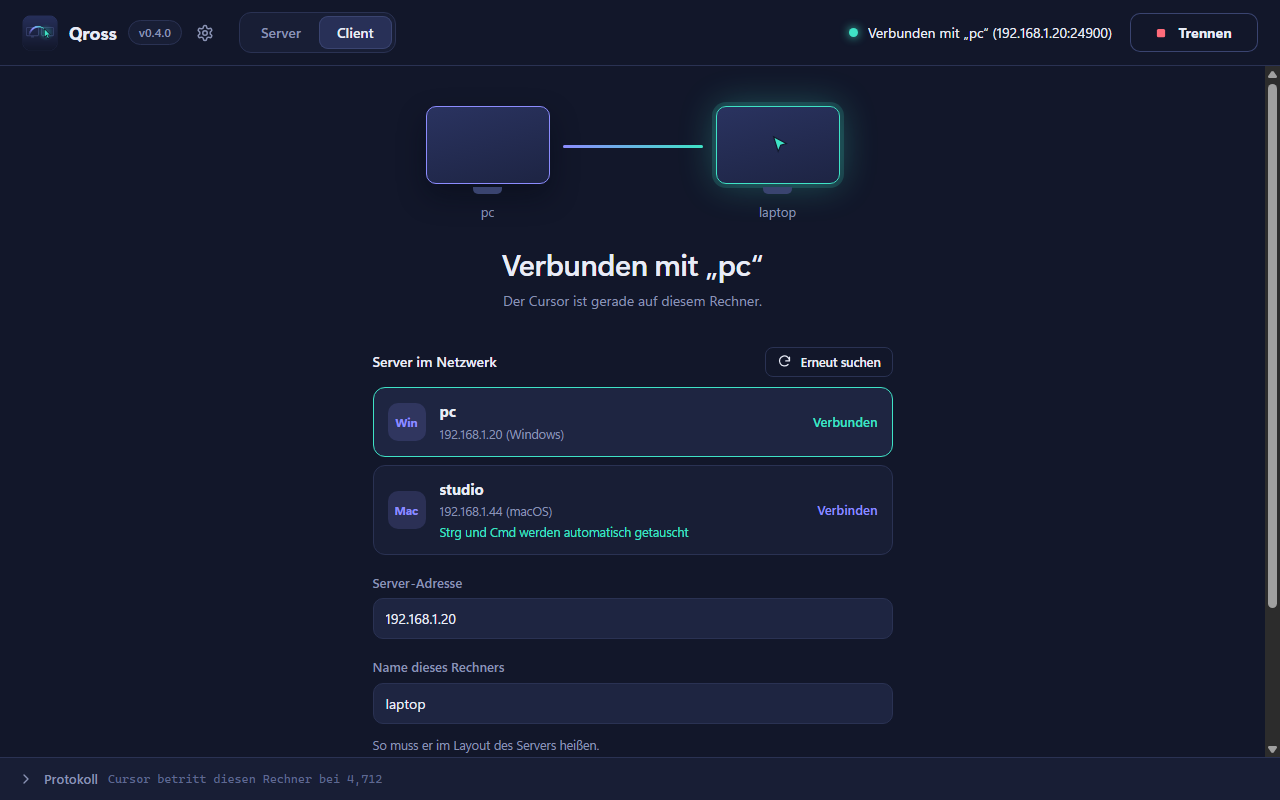
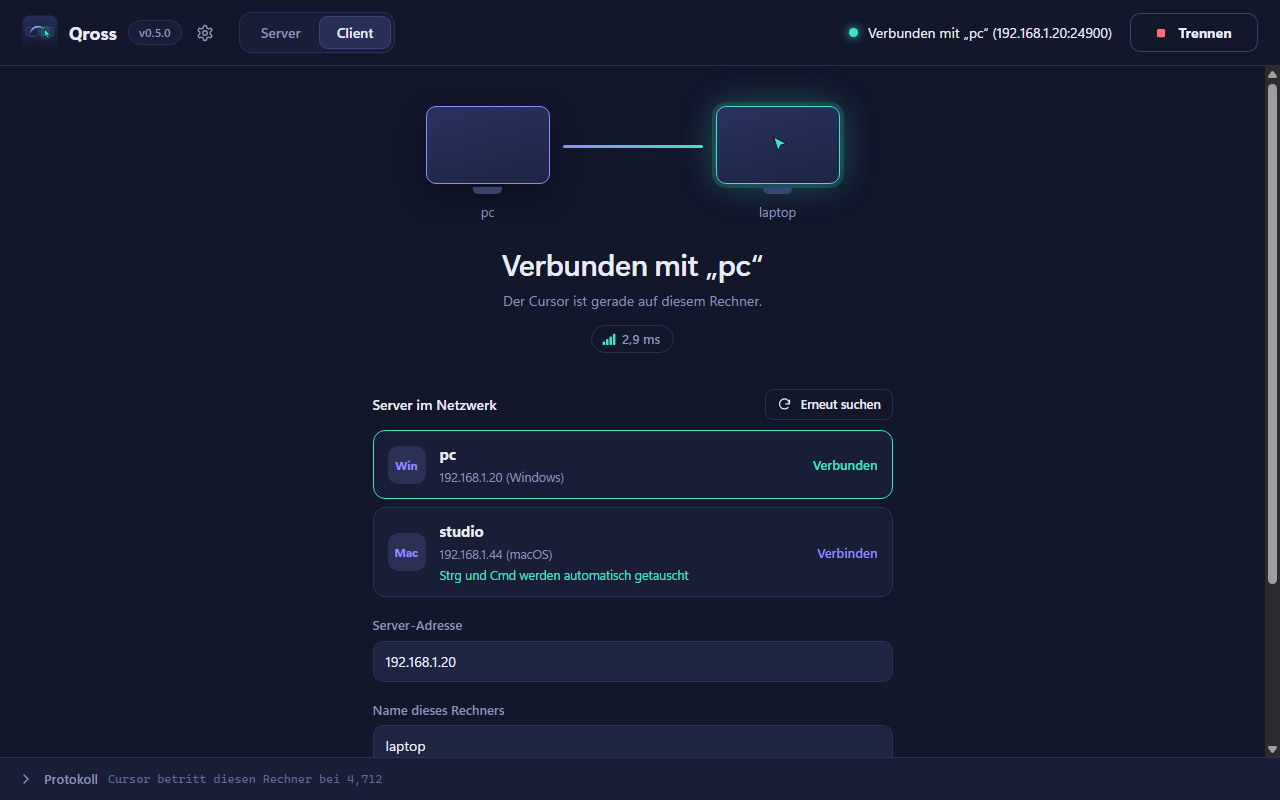
v0.5.0: Mehrere Monitore je Rechner und Verbindungsqualität
- Zusammengeführt: mehrere Monitore (Skizze im Layout-Editor, Cursor nur
  auf Monitorflächen, Wechsel nur an Kantenstücken mit Monitor) und
  Verbindungsqualität (Latenz, Jitter, Verlust, Durchsatz, Verlauf)
- Monitore als Neuerung von 0.5 datiert, Version 0.5.0, Changelog,
  README mit Screenshot der Verbindungsqualität, Screenshots erneuert

diff --git a/crates/qross-proto/src/lib.rs b/crates/qross-proto/src/lib.rs
@@ -24,7 +24,7 @@ pub const PROTOCOL_VERSION: u16 = 3;
 /// Version im `Welcome`: welche Erweiterungen von Protokoll 3 der Server versteht. Clients bis
 /// Qross 0.3 werten das Feld nicht aus.
 /// - 3: Qross 0.2 und 0.3
-/// - 4: `Control::Monitors` (seit Qross 0.4)
+/// - 4: `Control::Monitors` (seit Qross 0.5)
 pub const SERVER_VERSION: u16 = 4;
 /// Ab dieser `Welcome`-Version darf der Client `Control::Monitors` senden. Ältere Server trennen
 /// die Verbindung bei unbekannten Control-Nachrichten.
@@ -83,7 +83,7 @@ pub enum Control {
     Reject { reason: String },
     /// Client → Server: Auflösung oder Monitor-Anordnung hat sich geändert
     ScreenChanged(ScreenInfo),
-    /// Client → Server (seit Qross 0.4, nur ab `MONITORS_SINCE`): die einzelnen Monitore in denselben
+    /// Client → Server (seit Qross 0.5, nur ab `MONITORS_SINCE`): die einzelnen Monitore in denselben
     /// Koordinaten wie `ScreenInfo::bounds`. Folgt direkt auf das `Welcome` und nach jeder Änderung.
     /// Der Server hält den Cursor dann auf den Monitorflächen und wechselt nur an Kantenstücken,
     /// an denen ein Monitor an der äußeren Kante liegt.

diff --git a/crates/qross-net/src/server.rs b/crates/qross-net/src/server.rs
@@ -85,7 +85,7 @@ pub enum ServerNotice {
     /// Kopierte Dateien in der Zwischenablage (senden, empfangen, einfügbar, zu groß)
     ClipboardFiles(FilesNotice),
     /// Bildschirm eines verbundenen Clients: Gesamtfläche und einzelne Monitore (leer bei Clients
-    /// vor Qross 0.4). Kommt nach `ClientConnected`, sobald er Monitore meldet, und bei Änderungen.
+    /// vor Qross 0.5). Kommt nach `ClientConnected`, sobald er Monitore meldet, und bei Änderungen.
     ClientScreenChanged { name: String, screen: Rect, monitors: Vec<Rect> },
     /// Bildschirm des Servers selbst, nach `Listening` und bei Änderungen
     LocalScreenChanged { screen: Rect, monitors: Vec<Rect> },

diff --git a/crates/qross-core/src/server.rs b/crates/qross-core/src/server.rs
@@ -16,7 +16,7 @@ pub enum ServerEvent {
     Capture(CaptureEvent),
     ClientConnected { name: String, screen: Rect },
     ClientScreenChanged { name: String, screen: Rect },
-    /// Die einzelnen Monitore eines Clients (seit Qross 0.4). Ohne diese Meldung gilt seine
+    /// Die einzelnen Monitore eines Clients (seit Qross 0.5). Ohne diese Meldung gilt seine
     /// Fläche als ein einziger Monitor.
     ClientMonitors { name: String, monitors: Vec<Rect> },
     ClientDisconnected { name: String },

diff --git a/crates/qross-gui/src/runtime.rs b/crates/qross-gui/src/runtime.rs
@@ -46,7 +46,7 @@ pub struct ClientInfo {
     pub addr: String,
     pub width: u32,
     pub height: u32,
-    /// Einzelne Monitore (leer: Client vor Qross 0.4 oder noch nicht gemeldet)
+    /// Einzelne Monitore (leer: Client vor Qross 0.5 oder noch nicht gemeldet)
     pub monitors: Vec<Rect>,
 }
 

diff --git a/README.md b/README.md
@@ -31,6 +31,9 @@ anderen Rechner einfach **einfügen** (Strg+C hier, Strg+V dort).
     <td align="center"><img src="docs/assets/screenshots/einstellungen.png" alt="Einstellungen mit Autostart, Fang-Taste, Medientasten und Tastenumbelegung"><br><sub>Einstellungen: Autostart, Updates, Fang-Taste, Medientasten, Tasten je Rechner</sub></td>
     <td align="center"><img src="docs/assets/screenshots/neuigkeiten.png" alt="Neuigkeiten mit allen Versionen und ihren Änderungen"><br><sub>Neuigkeiten: Klick auf die Version in der Kopfzeile zeigt, was sich geändert hat</sub></td>
   </tr>
+  <tr>
+    <td align="center" colspan="2"><img src="docs/assets/screenshots/verbindungsqualitaet.png" width="620" alt="Verbindungsqualität eines Clients mit Latenz, Jitter, Verlust und Verlauf"><br><sub>Verbindungsqualität je Rechner: Latenz, Jitter, Verlust, Durchsatz und Verlauf der letzten Minute</sub></td>
+  </tr>
 </table>
 
 <sub>Die Screenshots zeigen Demo-Daten.</sub>
@@ -67,6 +70,8 @@ programm. Details im [Benchmark](docs/benchmark-ergebnisse.md).
 | Drag & Drop **vom Client** zum Server ziehen | ✔ Explorer | – | ✔ Finder¹ |
 | Gezogene Dateien **ablegen** | ✔ Explorer/Desktop unter dem Cursor | ✔ in `~/Downloads/Qross` | ✔ in `~/Downloads/Qross`¹ |
 | Fang-Taste frei wählbar, Medientasten, Tasten je Rechner umbelegen | ✔ | ✔² | ✔¹ ² |
+| Mehrere Monitore je Rechner: Skizze im Layout, Cursor nur auf Monitorflächen | ✔ | ✔ | ✔¹ |
+| Verbindungsqualität: Latenz, Jitter, Verlust, Durchsatz | ✔ | ✔ | ✔¹ |
 | Grafische Oberfläche mit Layout-Editor | ✔ | ✔² | ✔² |
 
 ¹ macOS wird in der CI auf Apple Silicon gebaut und getestet, auch mit der echten Zwischenablage. Erfassung und
@@ -79,7 +84,8 @@ Servers ohnehin dort, unter X11 gehen sie immer an den aktiven Rechner.
 **Wie geprüft wurde:**
 - Plattformunabhängige Logik, Protokoll und Netzwerk: Unit-Tests und Ende-zu-Ende-Tests über echtes QUIC
   (Wechsel, Eingaben, Zwischenablage mit Text, HTML und Bildern, Drag & Drop mit 8 MB und Ordnern, kopierte
-  Dateien und Ordner in beide Richtungen, Ablehnung unbekannter Clients, LAN-Suche).
+  Dateien und Ordner in beide Richtungen, Drag & Drop zum Server, mehrere Monitore je Client, Messwerte der
+  Verbindungsqualität, Ablehnung unbekannter Clients, LAN-Suche).
 - Windows-Zwischenablage: echter Test mit Text, HTML, PNG und Screenshot-Bitmap (DIB) sowie kopierten Dateien,
   die der Explorer anschließend selbst einfügt.
 - Linux: echte Tests gegen einen X-Server (Xvfb in Docker).

diff --git a/CHANGELOG.md b/CHANGELOG.md
@@ -8,6 +8,27 @@ jedes GitHub-Release übernimmt den Abschnitt seiner Version.
 
 Rubriken: **Neu**, **Verbessert**, **Behoben**, **Wichtig** (z. B. inkompatible Änderungen).
 
+## [0.5.0] - 2026-10-18
+
+### Neu
+
+- **Mehrere Monitore je Rechner:** Qross kennt jetzt jeden Monitor eines Rechners einzeln. Der Layout-Editor
+  zeigt sie maßstäblich im Kasten des Rechners, mit den Auflösungen im Tooltip.
+- **Verbindungsqualität:** Für jede Verbindung zeigt Qross Latenz, Jitter, Paketverlust und Durchsatz, dazu eine
+  Stufe von „Sehr gut“ bis „Schlecht“ und einen Verlauf der letzten Minute. Beim Server steht das je Client
+  unter „Verbundene Rechner“, beim Client im Status. Gemessen wird ohne zusätzlichen Netzverkehr.
+
+### Verbessert
+
+- Bei unterschiedlich großen oder versetzten Monitoren bleibt der Cursor auf echten Bildschirmflächen, statt in
+  toten Ecken des umschließenden Rechtecks zu hängen. Gewechselt wird nur dort, wo wirklich ein Monitor an der
+  Kante liegt, und der Cursor kommt auf dem nächstgelegenen Monitor an.
+
+### Wichtig
+
+- Die einzelnen Monitore meldet ein Client nur an einen Server ab 0.5.0. Mit älteren Servern bleibt es beim
+  umschließenden Rechteck, die Verbindung funktioniert weiter.
+
 ## [0.4.0] - 2026-10-18
 
 ### Neu
@@ -140,6 +161,7 @@ Erste Veröffentlichung.
 - Grafische Oberfläche mit Layout-Editor, Freigabe-Dialog und Tray-Symbol.
 - Läuft unter Windows, Linux (X11) und macOS (Apple Silicon).
 
+[0.5.0]: https://github.com/xozy22/qross/compare/v0.4.0...v0.5.0
 [0.4.0]: https://github.com/xozy22/qross/compare/v0.3.1...v0.4.0
 [0.3.1]: https://github.com/xozy22/qross/compare/v0.3.0...v0.3.1
 [0.3.0]: https://github.com/xozy22/qross/compare/v0.2.1...v0.3.0

diff --git a/docs/protokoll.md b/docs/protokoll.md
@@ -1,7 +1,7 @@
 # Qross-Protokoll, Version 3
 
 Seit Qross 0.3 abwärtskompatibel erweitert um kopierte Dateien in der Zwischenablage, seit Qross 0.4 um
-die einzelnen Monitore eines Clients (beides siehe unten).
+Drag & Drop vom Client zum Server und seit Qross 0.5 um die einzelnen Monitore eines Clients (siehe unten).
 
 Entscheidungsgrundlage: [benchmark-ergebnisse.md](benchmark-ergebnisse.md).
 Implementierung: `crates/qross-proto`.
@@ -58,7 +58,7 @@ große Schwachpunkt von Synergy.
 
 ## Mehrere Monitore
 
-`Hello` und `ScreenChanged` beschreiben nur das umschließende Rechteck aller Monitore. Seit Qross 0.4
+`Hello` und `ScreenChanged` beschreiben nur das umschließende Rechteck aller Monitore. Seit Qross 0.5
 meldet der Client zusätzlich die einzelnen Monitore als `Monitors(Vec<Rect>)`, in denselben Koordinaten
 (Windows und Linux: physische Pixel, macOS: Punkte wie beim Einspeisen). Er schickt die Liste direkt
 nach dem `Welcome` und erneut, sobald sich die Anordnung ändert, nach einem eventuellen `ScreenChanged`.
